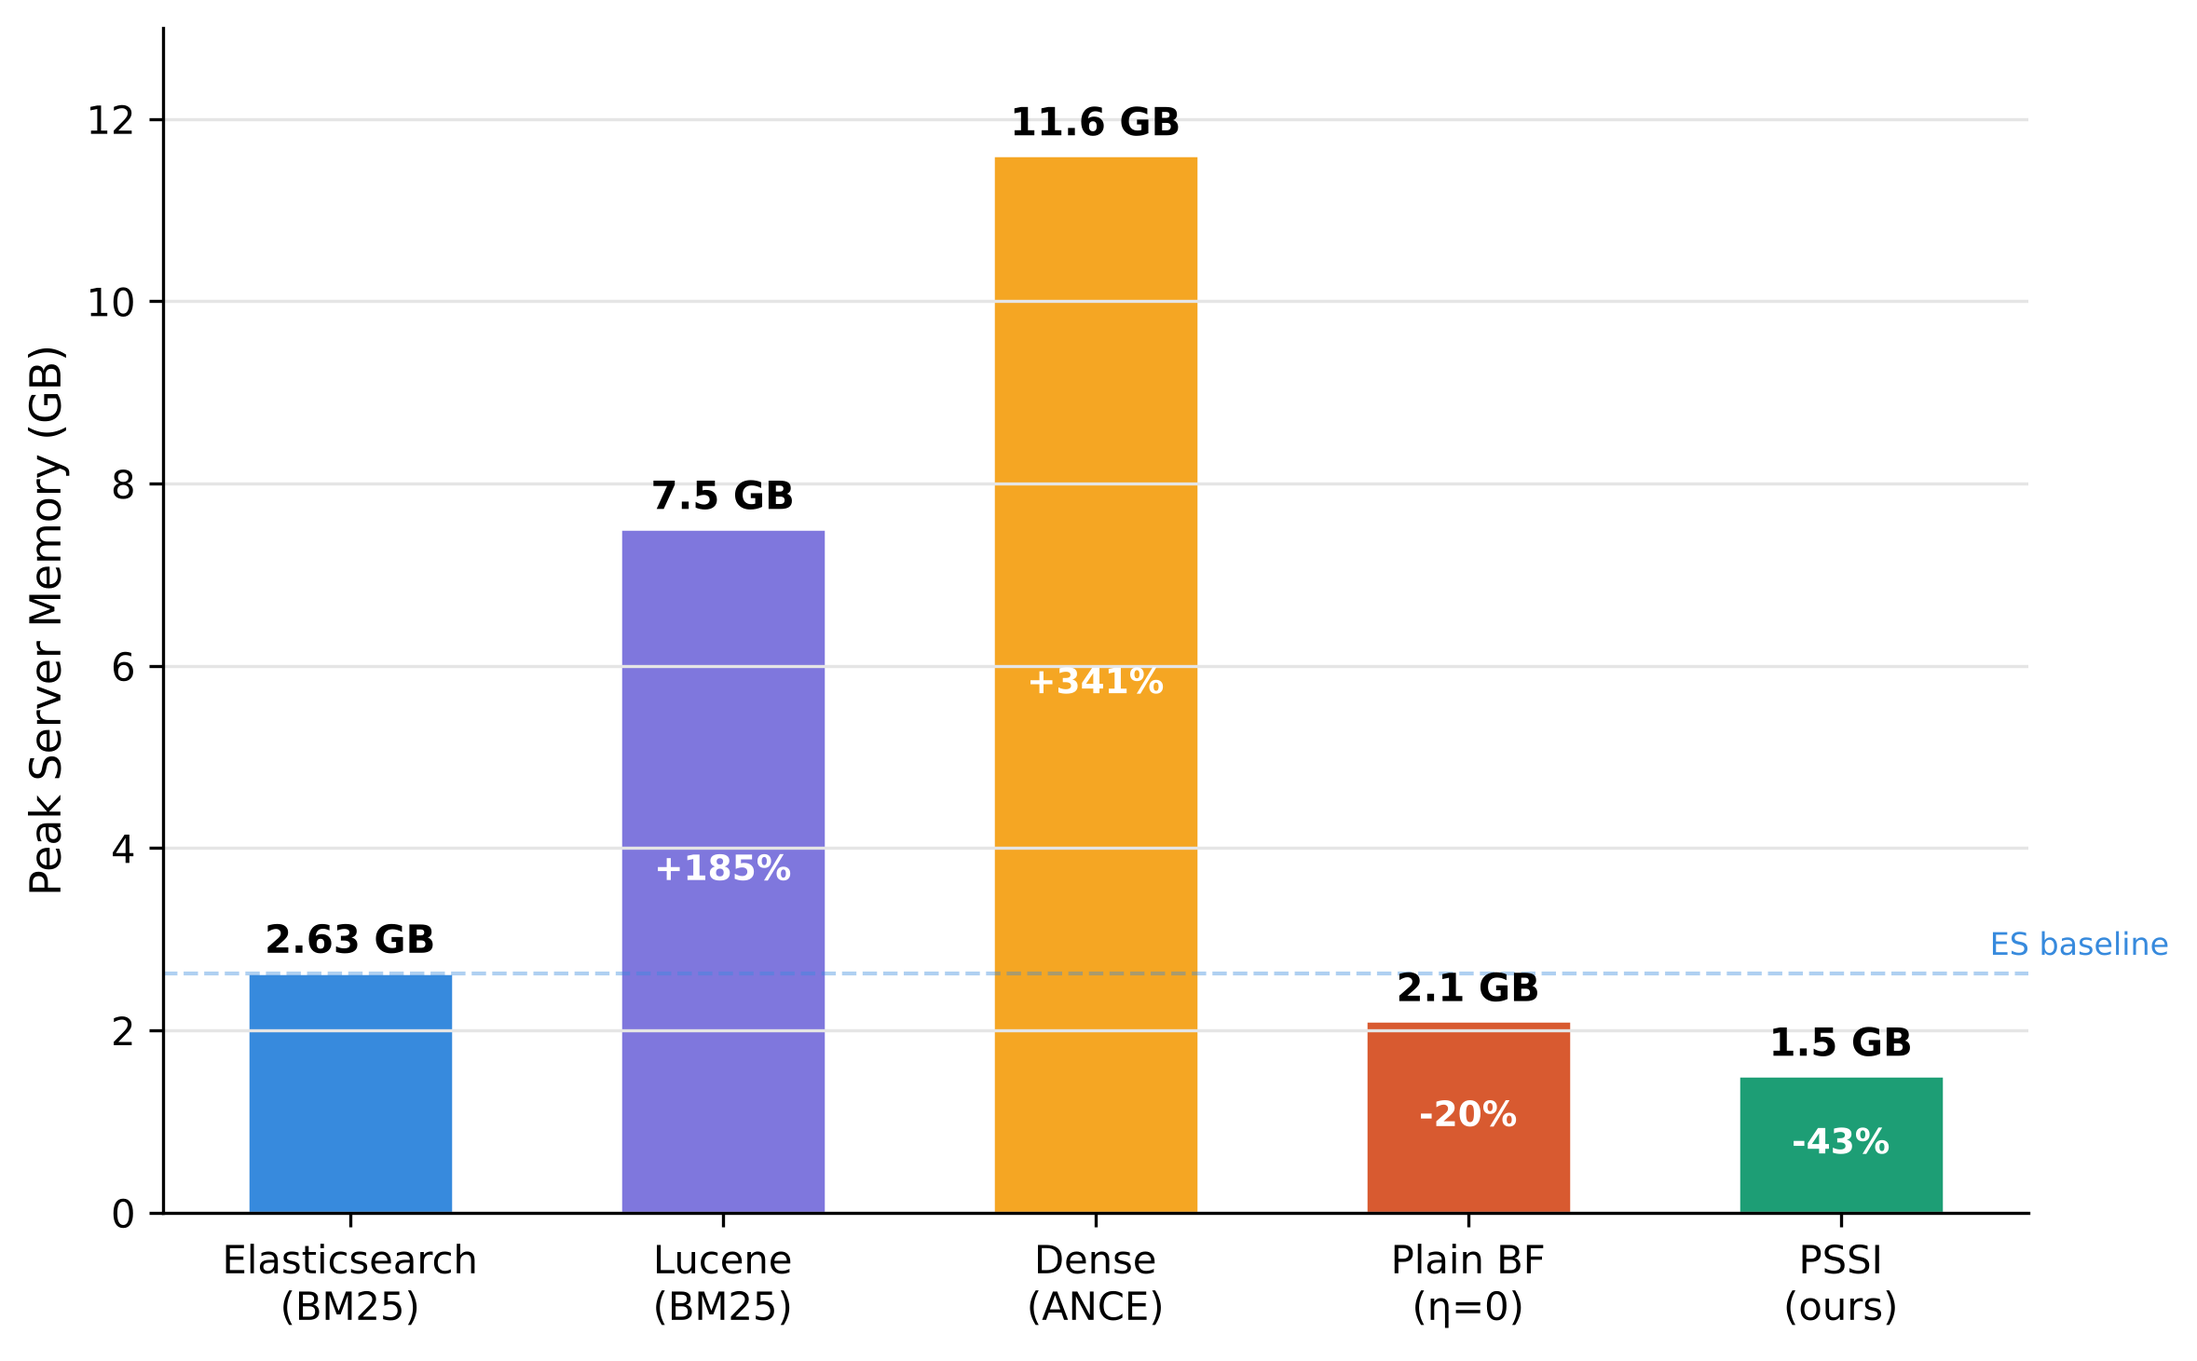
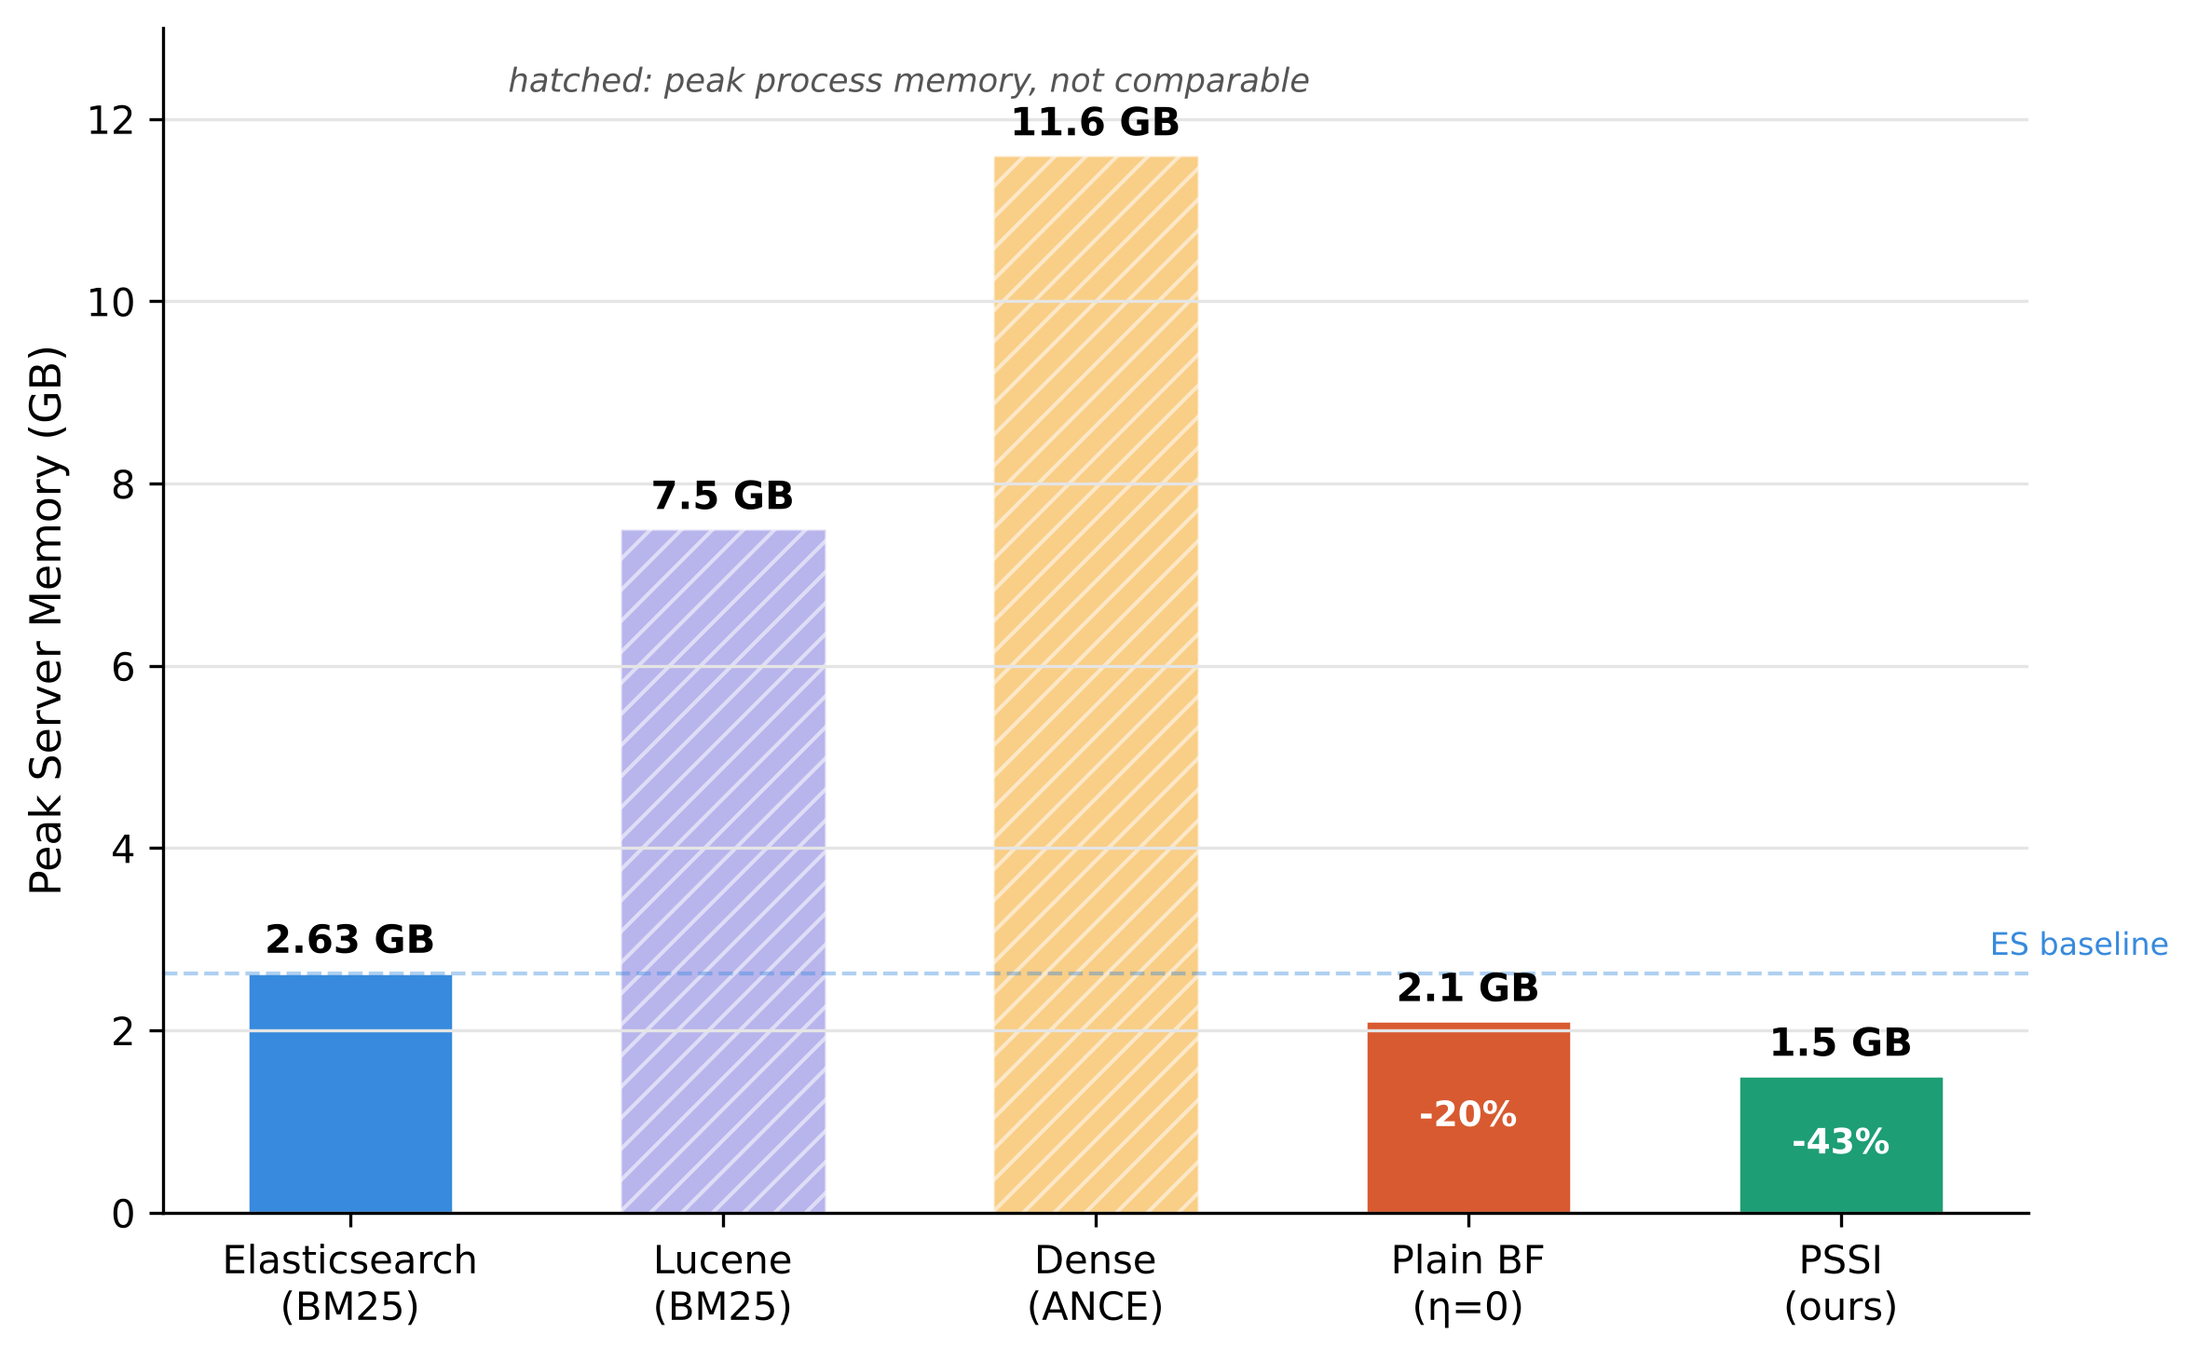
Update README and checks for the final camera-ready paper
- README: final venue wording, privacy accounting table (per bit,
  per n-gram, whole document), paper-to-code map, explicit scope
- verify_experiments.py: check composed bound (m+b)*eps_0 = 3,392 and
  per-n-gram bound 2k*eps_0 = 23.6 (Corollary 3)
- pssi/utils.py: accept eta = 0.5 (eps_0 = 0), matching Lemma 1's domain
- pssi_plot_results.py: memory plot hatches non-comparable bars; header
  states that plotted values are hard-coded from the paper

Claude-Session: https://claude.ai/code/session_011PEYqZeFRdNY9uUh4VGWKD

diff --git a/pssi_plot_results.py b/pssi_plot_results.py
@@ -2,8 +2,8 @@
 PSSI Experimental Results — Publication-Quality Figures
 ========================================================
 Generates the 9 plots used in Figs. 2-4 of the PSSI paper
-(IEEE BigData 2026, short paper). All values are the measured results
-reported in the paper (Table I and Section VI).
+(IEEE BigData 2026, short paper). All values are hard-coded here and are
+the ones reported in the paper (Table I and Section VI).
 
 Plots carry no "Fig N." titles: numbering and captions come from the paper.
 
@@ -187,15 +187,21 @@ def fig2_memory():
         ax.text(bar.get_x() + bar.get_width() / 2, bar.get_height() + 0.12,
                 f"{val:g} GB", ha="center", va="bottom", fontsize=10, fontweight="bold")
 
-    # Percentage labels relative to ES
-    for bar, val in zip(bars, memory):
-        if val != memory[0]:
+    # Lucene and ANCE report peak process memory (incl. JVM/native runtime),
+    # which is not comparable with the index-resident memory of ES, Plain BF
+    # and PSSI: hatch those bars and show percentages only for comparable ones.
+    peak_process = {1, 2}
+    for i, (bar, val) in enumerate(zip(bars, memory)):
+        if i in peak_process:
+            bar.set_hatch("///")
+            bar.set_alpha(0.55)
+        elif i > 0:
             pct = (val - memory[0]) / memory[0] * 100
-            label = f"{pct:+.0f}%"
-            color = C["pssi"] if pct < -50 else C["red"] if pct > 0 else C["gray"]
             ax.text(bar.get_x() + bar.get_width() / 2, val / 2,
-                    label, ha="center", va="center",
+                    f"{pct:+.0f}%", ha="center", va="center",
                     fontsize=9, color="white", fontweight="bold")
+    ax.text(1.5, 12.3, "hatched: peak process memory, not comparable",
+            ha="center", fontsize=8.5, color="#555555", style="italic")
 
     ax.set_ylabel("Peak Server Memory (GB)")
     ax.set_ylim(0, 13)

diff --git a/pssi/utils.py b/pssi/utils.py
@@ -63,8 +63,8 @@ def apply_bitflip_noise(active_indices, vector_size, eta=DEFAULT_ETA, rng=None):
         p' = p(1 - eta) + (1 - p)eta
     e.g. m=1024, p=0.283, eta=0.05  ->  p'=0.305, i.e. ~312 active bits.
     """
-    if not 0.0 <= eta < 0.5:
-        raise ValueError("eta must lie in [0, 0.5)")
+    if not 0.0 <= eta <= 0.5:
+        raise ValueError("eta must lie in [0, 0.5]")
     if eta == 0.0:
         return sorted(set(active_indices))
 
@@ -81,19 +81,22 @@ def epsilon0_ldp(eta=DEFAULT_ETA):
 
         eps_0 = ln((1 - eta) / eta)
 
-    eta=0.05 -> ln(19) ~= 2.944. eps_0 -> 0 as eta -> 0.5 (maximum privacy,
+    eta=0.05 -> ln(19) ~= 2.944. eps_0 = 0 at eta = 0.5 (maximum privacy,
     zero utility) and diverges as eta -> 0 (no privacy).
     """
-    if not 0.0 < eta < 0.5:
-        raise ValueError("eta must lie in (0, 0.5) for a finite epsilon_0")
+    if not 0.0 < eta <= 0.5:
+        raise ValueError("eta must lie in (0, 0.5] for a finite epsilon_0")
     return math.log((1.0 - eta) / eta)
 
 
 def composed_epsilon(num_bits, eta=DEFAULT_ETA):
-    """Conservative fully-composed bound s * eps_0 (Theorem 2(ii)).
+    """Conservative fully composed bound s * eps_0 over s released bits
+    (Theorem 2(ii)).
 
-    This is deliberately loose; see Remark 1 in the paper. Reported alongside
-    the per-bit figure rather than in place of it.
+    The stored active indices also reveal every inactive bit, so a document
+    releases all m + b bits: Corollary 3 uses s = m + b = 1,152, giving
+    ~3,392 at eta = 0.05. This is deliberately loose (see Remark 1) and is
+    reported alongside the per-bit figure rather than in place of it.
     """
     return num_bits * epsilon0_ldp(eta)
 

diff --git a/verify_experiments.py b/verify_experiments.py
@@ -50,8 +50,10 @@ def main():
     print("     eps_0 across the swept range:")
     for eta in (0.02, 0.05, 0.10, 0.15, 0.20, 0.30):
         print(f"       eta={eta:<5} eps_0={epsilon0_ldp(eta):.2f}")
-    print(f"     conservative composed bound s*eps_0 at s=312: "
-          f"{composed_epsilon(312, 0.05):.0f} (paper 918)")
+    check("composed bound (m+b)*eps_0, m+b=1152",
+          composed_epsilon(1024 + 128, 0.05), 3392, 1.0)
+    check("per-n-gram bound 2k*eps_0, k=4",
+          composed_epsilon(2 * 4, 0.05), 23.6, 0.05)
 
     # ---- 2. Noise, occupancy, FPR ---------------------------------------
     print("\n--- 2. Bit-flip noise, occupancy and FPR (Section IV-D) ---")

diff --git a/README.md b/README.md
@@ -1,25 +1,50 @@
 # Privacy-Preserving Semantic Search Index (PSSI)
 
-Reference implementation for **"Privacy-Preserving Semantic Search Index (PSSI) for Cloud-Based Document Retrieval"**, Md. Shamsul Arifin Mozumder and Muhammad Abdullah Adnan, *2026 IEEE International Conference on Big Data (IEEE BigData 2026)*, short paper.
+Source code for the paper
 
-PSSI supports substring, fuzzy and semantic matching over an obfuscated index held by an untrusted cloud server. The server stores only sparse integer arrays of noisy active bit indices and ranks documents with set intersection and Hamming distance. It never sees raw tokens, term frequencies, positions or dense embeddings.
+> **Privacy-Preserving Semantic Search Index (PSSI) for Cloud-Based Document Retrieval**
+> Md. Shamsul Arifin Mozumder and Muhammad Abdullah Adnan
+> 2026 IEEE International Conference on Big Data (IEEE BigData 2026), short paper
 
-## Overview
+Repository: <https://github.com/arifincsebuet/PSSI>
 
-1. **Trusted client** (`pssi/client.py`, paper Sec. IV-B): normalises text, extracts character trigrams, encodes them into a Bloom filter (Eq. 3), embeds the document and projects it to a binary semantic hash (Eq. 4), then applies **bit-flip randomized-response noise** to every bit of both representations (Eq. 5) before upload.
-2. **Untrusted cloud** (`pssi/cloud.py`, Sec. IV-C): stores the sparse indices and computes `P_substr`, `P_sem` (Eq. 6) and the composite score `lambda*P_substr + (1-lambda)*P_sem` (Eq. 7) with integer arithmetic only. Scoring is a linear scan over all stored entries.
+PSSI lets an untrusted cloud server answer substring, fuzzy, and semantic queries without seeing the documents. The server stores only sparse integer arrays of noisy active-bit indices and ranks documents with set intersection and Hamming distance. Raw tokens, term frequencies, positions, and dense embeddings never leave the client.
 
-The bit-flip mechanism is Warner's randomized response and satisfies **ε₀-local differential privacy** with the tight bound (Lemma 1)
+## How it works
+
+1. **Trusted client** (`pssi/client.py`, paper Sec. IV-B)
+   - Normalizes the text and extracts character trigrams.
+   - Encodes the trigrams into a Bloom filter (Eq. 3).
+   - Embeds the text and projects it to a 128-bit semantic hash (Eq. 4).
+   - Flips every bit of both representations with probability η (Eq. 5).
+   - Uploads only the indices of the active bits.
+2. **Untrusted cloud** (`pssi/cloud.py`, Sec. IV-C)
+   - Stores the sparse index entries.
+   - Computes the Bloom overlap `P_substr` and the Hamming similarity `P_sem` (Eq. 6).
+   - Ranks by `λ·P_substr + (1−λ)·P_sem` (Eq. 7) and returns the top-k document IDs.
+   - Scoring is a linear scan over all stored entries, using integer operations only.
+
+## Privacy guarantee
+
+The bit flip is Warner's randomized response. Each bit satisfies ε₀-local differential privacy with the tight bound of Lemma 1 (Eq. 8):
 
 ```
-ε₀ = ln((1 − η) / η)      →  η = 0.05 gives ε₀ = ln(19) ≈ 2.94
+ε₀ = ln((1 − η) / η)        η = 0.05  →  ε₀ = ln 19 ≈ 2.94
 ```
 
-This is a *per-bit* guarantee. The paper reports it alongside a conservative fully composed document-level bound (`s·ε₀ ≈ 918` at s = 312 active bits; Theorem 2, Corollary 3) and does not claim strong formal privacy at the default setting (Remark 1).
+This is a per-bit guarantee. The paper also reports (Corollary 3):
 
-## Configuration
+| Accounting | Bound at η = 0.05 |
+|---|---|
+| Per bit | ε₀ ≈ 2.94 |
+| Per n-gram (2k bits, k = 4) | 2k·ε₀ ≈ 23.6 |
+| Whole document (m + b = 1,152 bits) | (m + b)·ε₀ ≈ 3,392 |
 
-Defaults match the paper (Sec. IV-D, "Default parameters"):
+The paper does not claim strong formal privacy at the default setting (Remark 1). η is a tunable knob, and the attack evaluation is the main evidence of protection.
+
+## Default configuration
+
+Defaults match the paper (Sec. IV-D, "Default parameters").
 
 | Symbol | Meaning | Default |
 |---|---|---|
@@ -31,41 +56,48 @@ Defaults match the paper (Sec. IV-D, "Default parameters"):
 | `η` | Bit-flip probability | 0.05 |
 | `λ` | Composite weighting | 0.5 |
 
-Setting `eta=0.0` reproduces the **Plain BF** ablation baseline from the paper.
+Setting `eta=0.0` and `lam=1.0` gives the **Plain BF** baseline from the paper.
 
 ## Repository layout
 
-* `pssi/client.py`: client-side encoding, projection and noise injection.
-* `pssi/cloud.py`: sparse index storage and two-stage matching (Eqs. 6 and 7).
-* `pssi/utils.py`: Bloom hashing, random projection, bit-flip noise, and the ε₀ / FPR helpers.
-* `pssi/attack.py`: Algorithm 1, Sub-procedure A, the token-reconstruction attack used to measure leakage `L_A` (Sec. V).
-* `verify_experiments.py`: checks the analytically reproducible claims.
-* `demo.py`: end-to-end walkthrough.
-* `pssi_plot_results.py`: regenerates the plots used in Figs. 2 to 4 of the paper into `Pics/`.
+| Path | Contents | Paper |
+|---|---|---|
+| `pssi/client.py` | Client-side encoding, projection, noise injection | Sec. IV-B |
+| `pssi/cloud.py` | Sparse index store and two-stage scoring | Sec. IV-C |
+| `pssi/utils.py` | Bloom hashing, random projection, bit-flip noise, ε₀ and FPR helpers | Eqs. 3 to 5, 8 |
+| `pssi/attack.py` | Token-reconstruction attack (Algorithm 1, Sub-procedure A) | Sec. V |
+| `demo.py` | End-to-end walkthrough | |
+| `verify_experiments.py` | Checks the analytically reproducible claims | Sec. VI-E |
+| `pssi_plot_results.py` | Redraws the plots of Figs. 2 to 4 into `Pics/` | Sec. VI |
+| `Pics/` | The nine plot images used in the paper | Figs. 2 to 4 |
 
 ## Installation
 
-Python 3.8+.
+Requires Python 3.8 or later.
 
 ```bash
 pip install -r requirements.txt
 ```
 
-Core dependencies are `numpy`, `mmh3` and `matplotlib`. **`sentence-transformers` is optional**: install it to use the real `all-MiniLM-L6-v2` embeddings described in the paper. Without it the client falls back to a deterministic pseudo-embedding that exercises the pipeline but carries **no semantic signal**. That is enough for the mechanism checks below but cannot reproduce the paper's retrieval-quality numbers.
+Core dependencies are `numpy`, `mmh3`, and `matplotlib`.
+
+`sentence-transformers` is optional. Install it to use the real `all-MiniLM-L6-v2` embeddings described in the paper:
 
 ```bash
-pip install sentence-transformers      # optional, for real semantic embeddings
+pip install sentence-transformers
 ```
+
+Without it, the client falls back to a deterministic pseudo-embedding. That exercises the full pipeline but carries no semantic signal, so it cannot reproduce retrieval-quality numbers.
 
 ## Usage
 
-### 1. Interactive demonstration
+### 1. Demonstration
 
 ```bash
 python demo.py
 ```
 
-Walks through indexing, noise injection, sparse upload, query encoding and ranked retrieval, printing the bits added and removed by the noise mechanism at each step.
+Walks through indexing, noise injection, sparse upload, query encoding, and ranked retrieval. It prints the bits added and removed by the noise at each step.
 
 ### 2. Verification of analytical claims
 
@@ -73,23 +105,47 @@ Walks through indexing, noise injection, sparse upload, query encoding and ranke
 python verify_experiments.py
 ```
 
-Checks the claims that follow from the mechanism itself: the ε₀ guarantee (Lemma 1), post-noise bit occupancy against the analytic prediction `p' = p(1−η) + (1−p)η`, the k-hash false-positive rate (Sec. IV-D), the ~87 MB FiQA-2018 index size (Sec. VI-B), monotone decay of leakage `L_A` with η (Sec. V), and the λ ablation (Sec. VI-C).
+Checks the claims that follow from the mechanism itself:
 
-### 3. Figures
+- the per-bit ε₀, the per-n-gram bound, and the composed document bound (Lemma 1, Corollary 3)
+- post-noise bit occupancy against `p' = p(1−η) + (1−p)η` (Sec. IV-D)
+- the k-hash false-positive rate (Sec. IV-D)
+- the ≈87 MB FiQA-2018 index size (Sec. VI-B)
+- monotone decay of the leakage `L_A` as η grows (Sec. V)
+- the λ ablation trend (Sec. VI-C)
+
+The script uses a small built-in vocabulary. Its outputs match the paper qualitatively (trends, orders of magnitude, analytic identities). They are not the paper's reported figures, which come from 500 held-out BEIR documents and a 50,000-token Wikipedia vocabulary.
+
+### 3. Plots
 
 ```bash
 python pssi_plot_results.py
 ```
 
-Regenerates the nine plots in Figs. 2 to 4 of the paper into `Pics/` from the measured values reported in the paper. Figure numbers and captions come from the paper, so the images carry no "Fig N" titles.
+Redraws the nine plots of Figs. 2 to 4 into `Pics/`. The values are hard-coded in the script and are the ones reported in the paper; the script does not rerun any experiment. Figure numbers and captions come from the paper, so the images carry no "Fig N" titles.
 
 ## Scope and reproducibility
 
-This repository implements the **PSSI mechanism** and the leakage attack used to evaluate it. It does **not** bundle the cross-system comparison: the Elasticsearch, Lucene/Pyserini, ANCE/FAISS and OXT-SSE baselines in Table I and Figs. 2 and 4 require those external systems plus the BEIR corpora (NFCorpus, SciFact, FiQA-2018), and cannot be reproduced from this code alone.
+This repository contains the **PSSI mechanism** and the token-reconstruction attack used to evaluate it.
 
-Values printed by `verify_experiments.py` come from a small self-contained vocabulary. They match the paper **qualitatively** (trends, orders of magnitude, analytic identities) rather than reproducing the exact reported figures, which come from 500 held-out BEIR documents against a 50,000-token Wikipedia vocabulary.
+It does not contain:
 
-The threat model is honest-but-curious (Definition 1). Active adversaries (chosen-document and chosen-query attacks), adaptive attackers, and leakage from PSSI's own access patterns and semantic hash are outside the paper's scope and are listed as future work.
+- the baselines of Table I: Elasticsearch, Lucene/Pyserini, ANCE/FAISS, and OXT SSE
+- the access-pattern attack on OXT (Algorithm 1, Sub-procedure B)
+- the BEIR corpora (NFCorpus, SciFact, FiQA-2018)
+- the evaluation harness that produced Table I and Figs. 2 to 4
+
+Reproducing the cross-system results therefore requires those external systems and datasets in addition to this code.
+
+## Threat model
+
+The server is honest-but-curious (Definition 1). It sees every stored index entry, every query payload, and the Bloom hash functions, but not the documents, the projection matrix, or the embeddings.
+
+Outside the paper's scope and left as future work (Sec. VII):
+
+- active adversaries, including chosen-document and chosen-query attacks
+- adaptive attackers that account for the known η
+- leakage from PSSI's own access patterns and from the semantic hash
 
 ## Citation
 
@@ -97,8 +153,12 @@ The threat model is honest-but-curious (Definition 1). Active adversaries (chose
 @inproceedings{mozumder2026pssi,
   author    = {Mozumder, Md. Shamsul Arifin and Adnan, Muhammad Abdullah},
   title     = {Privacy-Preserving Semantic Search Index ({PSSI}) for Cloud-Based Document Retrieval},
-  booktitle = {Proceedings of the 2026 IEEE International Conference on Big Data (BigData)},
+  booktitle = {Proc. 2026 IEEE International Conference on Big Data (BigData)},
   year      = {2026},
   note      = {Short paper}
 }
 ```
+
+## Acknowledgments
+
+This research was supported by Samsung R&D Institute Bangladesh Ltd. (SRBD).
